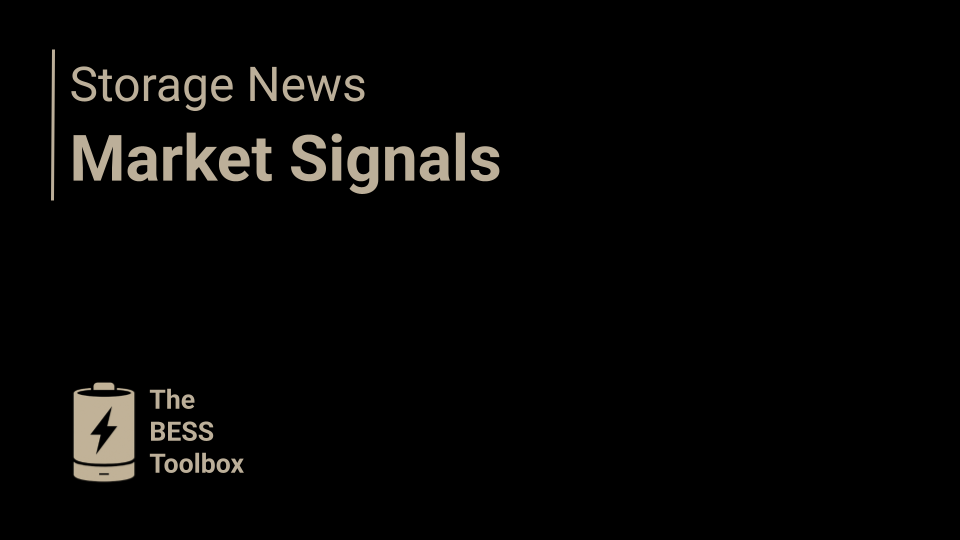
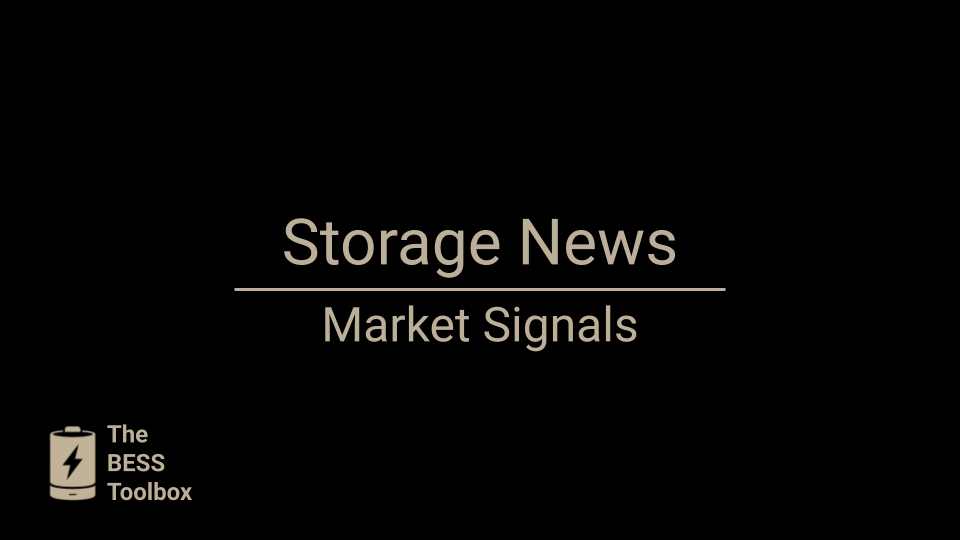
added lqtip and change asset

Changed region(s): [[0.25, 0.3852, 0.75, 0.6519], [0.0312, 0.1185, 0.5312, 0.3556], [0.0312, 0.7111, 0.25, 0.9481]]

diff --git a/_posts/2025-06-04-storage-news-germany-opens-inertia-market.md b/_posts/2025-06-04-storage-news-germany-opens-inertia-market.md
@@ -5,7 +5,7 @@ categories: [Storage News, Market Signals]
 tags: [market-signals, grid-forming, germany, synthetic-inertia, ancillary-services]
 image:
   path: /assets/img/2025/banner-storage-news-market-signals.png
-  lqtip:
[1 lines of base64/hex data omitted]
 ---
 
 Germany is advancing two regulatory reforms that could reshape the economics and operating model of battery energy storage systems (BESS) 🔋⚡
